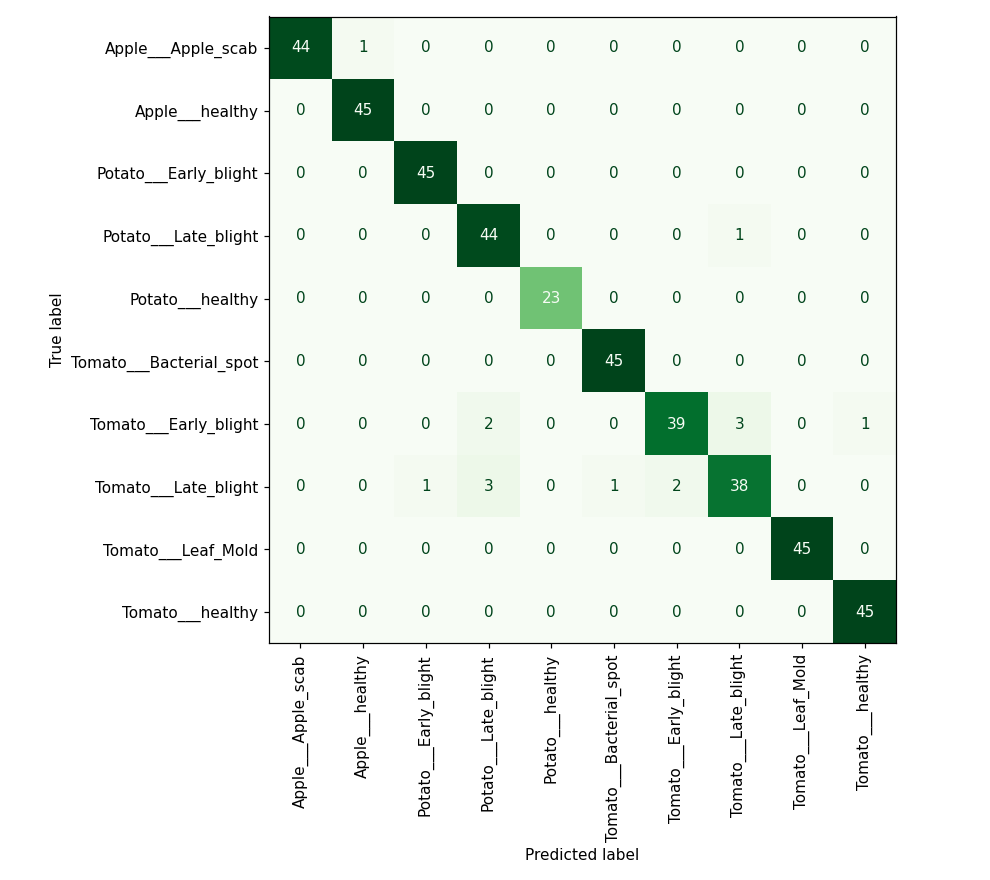
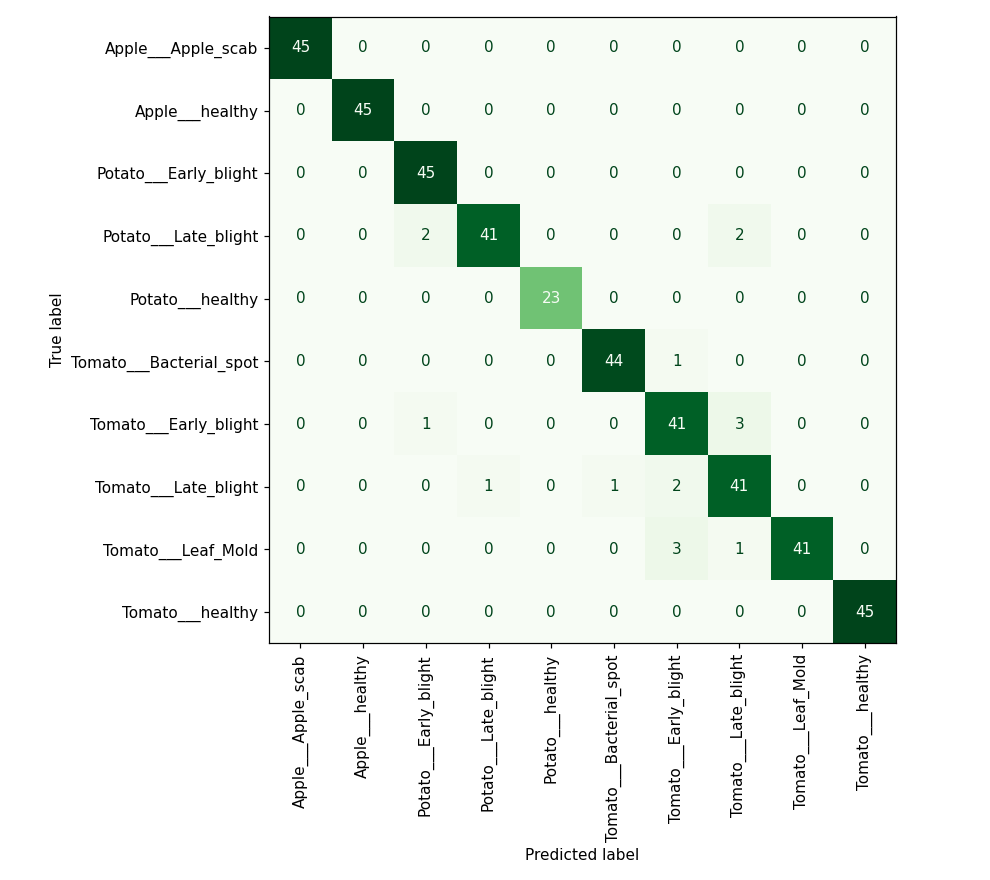
Robust model v5 (dark/blur augmentation): multi-criteria promotion gate, idempotent registration; docs and test counts updated

Changed region(s): [[0.7576, 0.583, 0.8485, 0.675], [0.6667, 0.4602, 0.697, 0.4909]]

diff --git a/src/train/evaluate.py b/src/train/evaluate.py
@@ -69,13 +69,51 @@ def robustness(model: torch.nn.Module, X: np.ndarray, y: np.ndarray) -> dict[str
     }
 
 
-def current_production_f1(client: MlflowClient) -> float:
-    """Test macro-F1 of the model currently aliased @production (-1 if none)."""
+ROBUST_KEYS = ("test_macro_f1", "test_dark_macro_f1", "test_blur_macro_f1")
+
+
+def overall_score(m: dict[str, float]) -> float:
+    """Mean F1 over clean, dark and blurry test photos (a metric missing = never measured = 0)."""
+    return float(np.mean([m.get(k, 0.0) for k in ROBUST_KEYS]))
+
+
+def current_production_metrics(client: MlflowClient) -> dict[str, float]:
+    """Test metrics of the model currently aliased @production ({} if none)."""
     try:
         mv = client.get_model_version_by_alias(MODEL_NAME, ALIAS)
-        return float(client.get_run(mv.run_id).data.metrics.get("test_macro_f1", -1))
+        return dict(client.get_run(mv.run_id).data.metrics)
     except Exception:
-        return -1.0
+        return {}
+
+
+def should_promote(
+    new: dict[str, float], prod: dict[str, float], min_f1: float, max_regression: float
+) -> tuple[bool, str]:
+    """Promotion gate.
+
+    1. clean test macro-F1 >= min_f1                          (absolute quality bar)
+    2. clean F1 >= production clean F1 - max_regression       (no meaningful drop on normal photos)
+    3. overall score (clean + dark + blur) >= production's    (better or equal under field conditions)
+    """
+    f1 = new["test_macro_f1"]
+    if f1 < min_f1:
+        return False, f"clean F1 {f1:.4f} < gate {min_f1:.2f}"
+    if not prod:
+        return True, "no production model yet"
+    if f1 < prod.get("test_macro_f1", 0.0) - max_regression:
+        return False, f"clean F1 {f1:.4f} dropped more than {max_regression} below production"
+    s_new, s_prod = overall_score(new), overall_score(prod)
+    if s_new < s_prod:
+        return False, f"overall score {s_new:.4f} < production {s_prod:.4f}"
+    return True, f"overall score {s_new:.4f} >= production {s_prod:.4f}"
+
+
+def register_once(client: MlflowClient, run_id: str):
+    """Reuse the registry version of this run if it exists (re-running evaluate must not duplicate it)."""
+    for v in client.search_model_versions(f"name='{MODEL_NAME}'"):
+        if v.run_id == run_id:
+            return v
+    return mlflow.register_model(f"runs:/{run_id}/model", MODEL_NAME)
 
 
 def main() -> None:
@@ -110,22 +148,25 @@ def main() -> None:
 
     mlflow.set_tracking_uri(os.getenv("MLFLOW_TRACKING_URI", "http://localhost:5000"))
     client = MlflowClient()
-    prod_f1 = current_production_f1(client)
+    prod = current_production_metrics(client)
+    new = {"test_macro_f1": f1, **robust}
 
     with mlflow.start_run(run_id=run_id):
         mlflow.log_metrics({"test_macro_f1": f1, "test_accuracy": acc, "test_min_class_recall": min_recall, **robust})
         mlflow.log_artifact("reports/confusion_matrix.png", artifact_path="eval")
         mlflow.log_artifact("reports/classification_report.json", artifact_path="eval")
-        mv = mlflow.register_model(f"runs:/{run_id}/model", MODEL_NAME)
+        mlflow.log_metric("test_overall_score", overall_score(new))
+        mv = register_once(client, run_id)
 
-    gate = params["evaluate"]["min_macro_f1"]
-    promoted = f1 >= gate and f1 >= prod_f1
+    ev = params["evaluate"]
+    promoted, reason = should_promote(new, prod, ev["min_macro_f1"], ev.get("max_clean_regression", 0.0))
     client.set_model_version_tag(MODEL_NAME, mv.version, "test_macro_f1", f"{f1:.4f}")
+    client.set_model_version_tag(MODEL_NAME, mv.version, "gate", reason)
     if promoted:
         client.set_registered_model_alias(MODEL_NAME, ALIAS, mv.version)
-        logger.info("promoted v%s to @%s (F1 %.4f >= gate %.2f, prev %.4f)", mv.version, ALIAS, f1, gate, prod_f1)
+        logger.info("promoted v%s to @%s: %s", mv.version, ALIAS, reason)
     else:
-        logger.warning("v%s NOT promoted (F1 %.4f, gate %.2f, prod %.4f)", mv.version, f1, gate, prod_f1)
+        logger.warning("v%s NOT promoted: %s", mv.version, reason)
 
     write_json(
         {
@@ -135,7 +176,10 @@ def main() -> None:
             **{k: round(v, 4) for k, v in robust.items()},
             "model_version": int(mv.version),
             "promoted": promoted,
-            "previous_production_f1": round(prod_f1, 4),
+            "test_overall_score": round(overall_score(new), 4),
+            "gate_reason": reason,
+            "previous_production_f1": round(prod.get("test_macro_f1", -1.0), 4),
+            "previous_production_score": round(overall_score(prod), 4) if prod else -1.0,
         },
         "reports/eval_metrics.json",
     )

diff --git a/tests/test_gate.py b/tests/test_gate.py
@@ -1,0 +1,30 @@
+"""Unit tests: model promotion gate (src/train/evaluate.py)."""
+
+from src.train.evaluate import should_promote
+
+PROD = {"test_macro_f1": 0.966, "test_dark_macro_f1": 0.84, "test_blur_macro_f1": 0.20}
+
+
+def test_first_model_promoted_if_above_gate():
+    assert should_promote({"test_macro_f1": 0.95}, {}, 0.90, 0.01)[0]
+
+
+def test_below_absolute_gate_rejected():
+    ok, why = should_promote({"test_macro_f1": 0.88}, {}, 0.90, 0.01)
+    assert not ok and "gate" in why
+
+
+def test_more_robust_model_with_small_clean_drop_promoted():
+    new = {"test_macro_f1": 0.962, "test_dark_macro_f1": 0.93, "test_blur_macro_f1": 0.88}
+    assert should_promote(new, PROD, 0.90, 0.01)[0]
+
+
+def test_large_clean_drop_rejected_even_if_robust():
+    new = {"test_macro_f1": 0.94, "test_dark_macro_f1": 0.95, "test_blur_macro_f1": 0.95}
+    ok, why = should_promote(new, PROD, 0.90, 0.01)
+    assert not ok and "dropped" in why
+
+
+def test_less_robust_model_rejected():
+    new = {"test_macro_f1": 0.966, "test_dark_macro_f1": 0.50, "test_blur_macro_f1": 0.10}
+    assert not should_promote(new, PROD, 0.90, 0.01)[0]

diff --git a/reports/tests/test_cases.md b/reports/tests/test_cases.md
@@ -7,55 +7,62 @@
 | 5 | e2e.test_stack | `test_real_leaf_predictions[apple_scab.jpg-Apple___Apple_scab]` | ⏭ skip | 0.00 |
 | 6 | e2e.test_stack | `test_prometheus_scrapes_all_targets` | ⏭ skip | 0.00 |
 | 7 | e2e.test_stack | `test_pipeline_status_lists_production_model` | ⏭ skip | 0.00 |
-| 8 | test_api | `test_health` | ✅ pass | 0.94 |
+| 8 | test_api | `test_health` | ✅ pass | 0.10 |
 | 9 | test_api | `test_ready_with_model_but_no_model_server` | ✅ pass | 0.04 |
-| 10 | test_api | `test_model_info` | ✅ pass | 0.03 |
-| 11 | test_api | `test_classes` | ✅ pass | 0.03 |
-| 12 | test_api | `test_predict_happy_path` | ✅ pass | 0.49 |
-| 13 | test_api | `test_predict_without_explanation` | ✅ pass | 0.09 |
-| 14 | test_api | `test_predict_png` | ✅ pass | 0.12 |
-| 15 | test_api | `test_predict_rejects_wrong_type` | ✅ pass | 0.03 |
-| 16 | test_api | `test_predict_rejects_empty` | ✅ pass | 0.03 |
-| 17 | test_api | `test_predict_rejects_corrupt_image` | ✅ pass | 0.05 |
-| 18 | test_api | `test_predict_rejects_too_large` | ✅ pass | 0.19 |
-| 19 | test_api | `test_dark_photo_warns` | ✅ pass | 0.10 |
-| 20 | test_api | `test_upload_is_stored_encrypted` | ✅ pass | 0.14 |
-| 21 | test_api | `test_feedback_flow` | ✅ pass | 0.17 |
-| 22 | test_api | `test_feedback_queues_labelled_photo_for_retraining` | ✅ pass | 0.32 |
-| 23 | test_api | `test_feedback_unknown_label` | ✅ pass | 0.12 |
-| 24 | test_api | `test_feedback_unknown_prediction` | ✅ pass | 0.03 |
-| 25 | test_api | `test_feedback_validation_error` | ✅ pass | 0.03 |
-| 26 | test_api | `test_drift_window_fills_and_resets` | ✅ pass | 0.19 |
-| 27 | test_api | `test_metrics_exposed` | ✅ pass | 0.09 |
-| 28 | test_api | `test_retrain_trigger_when_trainer_down` | ✅ pass | 0.04 |
-| 29 | test_api | `test_alert_webhook_ignores_non_retrain_alerts` | ✅ pass | 0.04 |
-| 30 | test_api | `test_alert_webhook_triggers_retrain_on_drift` | ✅ pass | 0.04 |
-| 31 | test_api | `test_model_not_loaded_returns_503` | ✅ pass | 0.04 |
-| 32 | test_data_pipeline | `test_valid_image_passes` | ✅ pass | 0.00 |
-| 33 | test_data_pipeline | `test_grayscale_image_is_accepted` | ✅ pass | 0.00 |
-| 34 | test_data_pipeline | `test_small_image_rejected` | ✅ pass | 0.00 |
-| 35 | test_data_pipeline | `test_corrupt_file_rejected` | ✅ pass | 0.00 |
-| 36 | test_data_pipeline | `test_missing_file_rejected` | ✅ pass | 0.00 |
-| 37 | test_data_pipeline | `test_transform_resizes_and_adds_stats` | ✅ pass | 0.01 |
-| 38 | test_drift | `test_stats_keys_and_ranges` | ✅ pass | 0.00 |
-| 39 | test_drift | `test_darker_image_has_lower_brightness` | ✅ pass | 0.00 |
-| 40 | test_drift | `test_blurred_image_has_lower_sharpness` | ✅ pass | 0.00 |
-| 41 | test_drift | `test_rejects_non_rgb` | ✅ pass | 0.00 |
-| 42 | test_drift | `test_baseline_roundtrip` | ✅ pass | 0.00 |
-| 43 | test_drift | `test_drift_detector_flags_dark_inputs` | ✅ pass | 0.01 |
-| 44 | test_drift | `test_empty_detector_scores_zero` | ✅ pass | 0.00 |
-| 45 | test_import_feedback | `test_imports_new_labelled_photo` | ✅ pass | 0.00 |
-| 46 | test_import_feedback | `test_second_run_is_idempotent` | ✅ pass | 0.00 |
-| 47 | test_import_feedback | `test_unknown_label_is_not_imported` | ✅ pass | 0.00 |
-| 48 | test_import_feedback | `test_wrong_key_is_reported_not_crashing` | ✅ pass | 0.00 |
-| 49 | test_import_feedback | `test_no_key_skips` | ✅ pass | 0.00 |
-| 50 | test_model | `test_forward_shape[mobilenet_v2]` | ✅ pass | 0.16 |
-| 51 | test_model | `test_forward_shape[resnet18]` | ✅ pass | 0.16 |
-| 52 | test_model | `test_freeze_backbone_only_head_trainable` | ✅ pass | 0.03 |
-| 53 | test_model | `test_unfrozen_backbone_trainable` | ✅ pass | 0.03 |
-| 54 | test_model | `test_normalisation_is_inside_model` | ✅ pass | 0.03 |
-| 55 | test_model | `test_unknown_backbone` | ✅ pass | 0.00 |
-| 56 | test_trainer | `test_successful_run_parses_stages` | ✅ pass | 0.05 |
-| 57 | test_trainer | `test_failed_run` | ✅ pass | 0.05 |
-| 58 | test_trainer | `test_rejects_concurrent_runs` | ✅ pass | 1.06 |
-| 59 | test_trainer | `test_alert_retrain_respects_cooldown` | ✅ pass | 0.10 |
+| 10 | test_api | `test_model_info` | ✅ pass | 0.04 |
+| 11 | test_api | `test_classes` | ✅ pass | 0.13 |
+| 12 | test_api | `test_predict_happy_path` | ✅ pass | 0.19 |
+| 13 | test_api | `test_predict_without_explanation` | ✅ pass | 0.06 |
+| 14 | test_api | `test_predict_png` | ✅ pass | 0.10 |
+| 15 | test_api | `test_predict_rejects_wrong_type` | ✅ pass | 0.04 |
+| 16 | test_api | `test_predict_rejects_empty` | ✅ pass | 0.04 |
+| 17 | test_api | `test_predict_rejects_corrupt_image` | ✅ pass | 0.04 |
+| 18 | test_api | `test_predict_rejects_too_large` | ✅ pass | 0.18 |
+| 19 | test_api | `test_real_leaf_is_recognised_as_leaf` | ✅ pass | 0.11 |
+| 20 | test_api | `test_non_leaf_photo_is_flagged` | ✅ pass | 0.08 |
+| 21 | test_api | `test_dark_photo_warns` | ✅ pass | 0.10 |
+| 22 | test_api | `test_upload_is_stored_encrypted` | ✅ pass | 0.10 |
+| 23 | test_api | `test_feedback_flow` | ✅ pass | 0.11 |
+| 24 | test_api | `test_feedback_queues_labelled_photo_for_retraining` | ✅ pass | 0.11 |
+| 25 | test_api | `test_feedback_unknown_label` | ✅ pass | 0.11 |
+| 26 | test_api | `test_feedback_unknown_prediction` | ✅ pass | 0.04 |
+| 27 | test_api | `test_feedback_validation_error` | ✅ pass | 0.03 |
+| 28 | test_api | `test_drift_window_fills_and_resets` | ✅ pass | 0.12 |
+| 29 | test_api | `test_metrics_exposed` | ✅ pass | 0.06 |
+| 30 | test_api | `test_retrain_trigger_when_trainer_down` | ✅ pass | 0.04 |
+| 31 | test_api | `test_alert_webhook_ignores_non_retrain_alerts` | ✅ pass | 0.04 |
+| 32 | test_api | `test_alert_webhook_triggers_retrain_on_drift` | ✅ pass | 0.03 |
+| 33 | test_api | `test_model_not_loaded_returns_503` | ✅ pass | 0.04 |
+| 34 | test_data_pipeline | `test_valid_image_passes` | ✅ pass | 0.00 |
+| 35 | test_data_pipeline | `test_grayscale_image_is_accepted` | ✅ pass | 0.00 |
+| 36 | test_data_pipeline | `test_small_image_rejected` | ✅ pass | 0.00 |
+| 37 | test_data_pipeline | `test_corrupt_file_rejected` | ✅ pass | 0.00 |
+| 38 | test_data_pipeline | `test_missing_file_rejected` | ✅ pass | 0.00 |
+| 39 | test_data_pipeline | `test_transform_resizes_and_adds_stats` | ✅ pass | 0.00 |
+| 40 | test_drift | `test_stats_keys_and_ranges` | ✅ pass | 0.00 |
+| 41 | test_drift | `test_darker_image_has_lower_brightness` | ✅ pass | 0.00 |
+| 42 | test_drift | `test_blurred_image_has_lower_sharpness` | ✅ pass | 0.00 |
+| 43 | test_drift | `test_rejects_non_rgb` | ✅ pass | 0.00 |
+| 44 | test_drift | `test_baseline_roundtrip` | ✅ pass | 0.00 |
+| 45 | test_drift | `test_drift_detector_flags_dark_inputs` | ✅ pass | 0.00 |
+| 46 | test_drift | `test_empty_detector_scores_zero` | ✅ pass | 0.00 |
+| 47 | test_gate | `test_first_model_promoted_if_above_gate` | ✅ pass | 0.00 |
+| 48 | test_gate | `test_below_absolute_gate_rejected` | ✅ pass | 0.00 |
+| 49 | test_gate | `test_more_robust_model_with_small_clean_drop_promoted` | ✅ pass | 0.00 |
+| 50 | test_gate | `test_large_clean_drop_rejected_even_if_robust` | ✅ pass | 0.00 |
+| 51 | test_gate | `test_less_robust_model_rejected` | ✅ pass | 0.00 |
+| 52 | test_import_feedback | `test_imports_new_labelled_photo` | ✅ pass | 0.00 |
+| 53 | test_import_feedback | `test_second_run_is_idempotent` | ✅ pass | 0.00 |
+| 54 | test_import_feedback | `test_unknown_label_is_not_imported` | ✅ pass | 0.00 |
+| 55 | test_import_feedback | `test_wrong_key_is_reported_not_crashing` | ✅ pass | 0.00 |
+| 56 | test_import_feedback | `test_no_key_skips` | ✅ pass | 0.00 |
+| 57 | test_model | `test_forward_shape[mobilenet_v2]` | ✅ pass | 0.07 |
+| 58 | test_model | `test_forward_shape[resnet18]` | ✅ pass | 0.14 |
+| 59 | test_model | `test_freeze_backbone_only_head_trainable` | ✅ pass | 0.03 |
+| 60 | test_model | `test_unfrozen_backbone_trainable` | ✅ pass | 0.03 |
+| 61 | test_model | `test_normalisation_is_inside_model` | ✅ pass | 0.03 |
+| 62 | test_model | `test_unknown_backbone` | ✅ pass | 0.00 |
+| 63 | test_trainer | `test_successful_run_parses_stages` | ✅ pass | 0.05 |
+| 64 | test_trainer | `test_failed_run` | ✅ pass | 0.05 |
+| 65 | test_trainer | `test_rejects_concurrent_runs` | ✅ pass | 1.06 |
+| 66 | test_trainer | `test_alert_retrain_respects_cooldown` | ✅ pass | 0.10 |

diff --git a/docs/HLD.md b/docs/HLD.md
@@ -40,6 +40,9 @@
 | **Registry alias polling** for deployment | Restart containers from CI | No privileged Docker socket is needed. Both the model server and the backend converge to `@production` within 30 s, and rollback is just moving the alias. |
 | **Drift = rolling z-score of brightness and blur** | KS test, PSI | Interpretable for operators ("photos are 25σ darker than training"), cheap per request, and maps directly onto the project statement's examples (brightness, blur). The window of 50 and the minimum of 20 samples avoid alerting on a single odd photo. |
 | **Feedback-labelled uploads become training data** | Retrain on the static dataset only | When a user confirms or corrects a prediction, the encrypted upload is queued under `data/feedback/<true label>/`. Before every retrain, `src/data/import_feedback.py` decrypts these into `data/raw`, and `scripts/retrain.sh` runs `dvc add data/raw`, which creates a new data version. Retraining therefore adapts to real field photos (dark, blurry, cluttered) instead of only reproducing the lab-photo model. The validate stage still checks the new photos and drops duplicates. |
+| **Field-condition augmentation + robustness metrics** | Augment with flips only | The drift demo showed the lab-trained model fails on field-like photos: on darkened and blurred copies of the test set, v4 scored F1 0.84 (dark) and **0.20 (blur)**. Training now optionally adds dark and blur augmentation (`train.field_augment`). Evaluation logs `test_dark_macro_f1` and `test_blur_macro_f1` to MLflow on every run, so robustness is tracked like accuracy. Augmentation runs in OpenCV on uint8 arrays, because torch ops inside forked DataLoader workers deadlock. |
+| **"Not a leaf" check (colour heuristic)** | A trained "other" class | No non-leaf training data is available in the course setup. A leaf-colour pixel ratio (HSV) flags blank pages, sky and screenshots, and wrongly flags under 1% of real leaves, measured on 600 dataset photos. The photo is flagged with a warning, not rejected, so a false flag never blocks a real user. A learned "other" class is the robust fix. |
+| **Dataset manifest + download script** | Only the DVC remote | The DVC remote is a local folder. `data/plantvillage_subset.txt` plus `scripts/download_data.py` rebuild the exact files from the public source, and `dvc status data/raw.dvc` proves they are byte-identical. That gives reproducibility from a fresh clone with no cloud storage. |
 | **Accuracy from user feedback** | Only offline evaluation | Ground truth exists in production only when users confirm or correct a prediction. A rolling accuracy over the last 100 feedbacks drives the `AccuracyDrop` alert. |
 | **Fernet encryption of stored uploads** | Plaintext storage | Meets the security best practice: user images are kept for future labelled retraining but never stored in plaintext. The key comes from the `ENCRYPTION_KEY` env var. |
 | **Single multi-stage Dockerfile** for Python services | One Dockerfile per service | Torch, MLflow and Ray are about 1.5 GB of dependencies. Sharing the layer cuts build time and disk use by about 4×. The frontend still has its own Dockerfile. |

diff --git a/docs/test_plan.md b/docs/test_plan.md
@@ -31,15 +31,15 @@
 
 | ID | Criterion | Threshold | Measured | Result |
 |---|---|---|---|---|
-| AC1 | Test-set macro-F1 | ≥ 0.90 | **0.966** (model v2) | ✅ |
-| AC2 | Minimum per-class recall | ≥ 0.80 | **0.844** (Tomato Early blight) | ✅ |
+| AC1 | Test-set macro-F1 | ≥ 0.90 | **0.962** (model v5; v2 was 0.966) | ✅ |
+| AC2 | Minimum per-class recall | ≥ 0.80 | **0.911** (model v5) | ✅ |
 | AC3 | p95 `/predict` latency, with heatmap, CPU, sequential | < 200 ms | **158 ms** (60 requests) | ✅ |
 | AC4 | API 5xx error rate under normal traffic | < 1 % | **0 %** (0 of 160 requests) | ✅ |
 | AC5 | Invalid inputs rejected with a clear 4xx message | 100 % | 415 / 400 / 413 / 422 verified | ✅ |
 | AC6 | Brightness drift detected within one window (50 uploads) | \|z\| > 3 | **z = −25.7** after 40 dark uploads | ✅ |
 | AC7 | A worse model is never promoted | gate holds | v1 (F1 0.881) rejected; v2 (0.966) promoted | ✅ |
 | AC8 | Data validation rejects bad files and keeps good ones | bad ≤ 5 % | 1 duplicate dropped, 2,851 kept | ✅ |
-| AC9 | All unit and integration tests pass | 100 % | **52 / 52** | ✅ |
+| AC9 | All unit and integration tests pass | 100 % | **59 / 59** | ✅ |
 | AC10 | Full stack starts with one command and E2E tests pass | 100 % | **7 / 7**, closed-loop retrain verified | ✅ |
 
 ## 4. Test cases
@@ -76,7 +76,9 @@ The full per-test table is generated on every run at `reports/tests/test_cases.m
 | TC43–46 | Trainer | `test_trainer.py` (4) | Fake pipelines | stage parsing; failure state; single-run lock; cooldown for alerts but not manual |
 | TC47–51 | Feedback import | `test_import_feedback.py` (5) | Encrypted labelled upload; rerun; unknown label; wrong key; no key | imported once as JPEG; idempotent; never creates a class; errors counted, no crash |
 | TC52 | API | `test_feedback_queues_labelled_photo_for_retraining` | Feedback on a stored upload | encrypted copy saved under `FEEDBACK_DIR/<label>/` |
-| TC53–59 | E2E | `tests/e2e/test_stack.py` (7) | Running stack | UI served with config; backend uses the model server; the 3 real samples classified correctly; all Prometheus targets up; registry has a production version |
+| TC53 | API | `test_real_leaf_is_recognised_as_leaf` | Real leaf JPG | `looks_like_leaf = true` |
+| TC54 | API | `test_non_leaf_photo_is_flagged` | Uniform "sky" image | `looks_like_leaf = false`, first warning says it isn't a leaf |
+| TC55–61 | E2E | `tests/e2e/test_stack.py` (7) | Running stack | UI served with config; backend uses the model server; the 3 real samples classified correctly; all Prometheus targets up; registry has a production version |
 
 ## 5. Test report
 
@@ -84,7 +86,7 @@ The full per-test table is generated on every run at `reports/tests/test_cases.m
 
 | Suite | Total | Passed | Failed | Skipped |
 |---|---|---|---|---|
-| Unit + integration | 52 | **52** | 0 | 0 |
+| Unit + integration | 59 | **59** | 0 | 0 |
 | E2E (needs the running stack) | 7 | — | — | 7 (run separately, see below) |
 
 **Performance and drift run** (`scripts/simulate_traffic.py`, local stack, model v2 via `mlflow models serve`):

diff --git a/README.md b/README.md
@@ -24,9 +24,9 @@ LeafGuard classifies photos of tomato, potato and apple leaves into 10 healthy o
 | Packaging | **Docker, Docker Compose** | `Dockerfile`, `frontend/Dockerfile`, `docker-compose.yml` |
 
 **Results:**
-- Model v2 (MobileNetV2, fine-tuned) has test **macro-F1 0.966** and accuracy 0.965.
+- Production model v5 (MobileNetV2, fine-tuned with field-condition augmentation) has test **macro-F1 0.962**. It is robust to field photos: F1 is **0.93 on dark** and **0.88 on blurry** test photos, up from 0.84 and 0.20 for the previous model.
 - p95 `/predict` latency is **158 ms** on CPU, including the heatmap.
-- 52/52 unit and integration tests pass.
+- 59/59 unit and integration tests pass.
 
 ## Documentation
 | Doc | Purpose |
@@ -58,6 +58,13 @@ docker compose up -d --build
 | Trainer | http://localhost:8001/status |
 
 The first start needs an MLflow registry with a `leafguard@production` model. Run the pipeline once (below, or click **Run pipeline now** in the console).
+
+## Getting the data without the DVC remote
+The DVC remote is a local folder, so a fresh clone can rebuild the exact dataset from the public PlantVillage repo instead:
+```bash
+python scripts/download_data.py   # downloads the 2,852 files listed in data/plantvillage_subset.txt
+dvc status data/raw.dvc           # "up to date" proves the files are byte-identical to the versioned dataset
+```
 
 ## Develop locally (no Docker)
 ```bash

diff --git a/docs/user_manual.md b/docs/user_manual.md
@@ -33,7 +33,7 @@ The dot in the top-right corner shows the service status:
    - Use daylight, and avoid dark shade and strong flash.
    - Use a plain background if you can.
    - Hold still so the photo is sharp.
-2. **Choose the photo.** On the *Check a leaf* page, drag the photo onto the dashed box, or click the box and pick the photo. A small preview appears.
+2. **Choose the photo.** On the *Check a leaf* page, drag the photo onto the dashed box, or click the box and pick the photo. **On a phone, tapping the box opens the camera directly.** A small preview appears.
 3. **Click "Check this leaf".** The result appears in about a second.
 4. **Read the result:**
    - A ✅ **green box** means the leaf looks healthy.
@@ -50,6 +50,7 @@ The dot in the top-right corner shows the service status:
 
 | Message | What to do |
 |---|---|
+| ❓ "This photo doesn't look like a plant leaf" | The photo shows mostly sky, paper, a screen or background. Photograph the leaf up close so it fills the frame. |
 | "Photo looks very dark" | Retake it in better light. |
 | "Photo looks blurry" | Hold the phone steady and tap the screen to focus on the leaf. |
 | "The model is not confident" | Retake the photo, or ask an agronomist. |

diff --git a/docs/LLD.md b/docs/LLD.md
@@ -58,6 +58,7 @@ The machine-readable contract is [`openapi.json`](openapi.json), exported from t
 | `prediction_id` | string (32 hex) | Use this when sending feedback |
 | `label` / `display_name` | string | Class id / human-readable name |
 | `is_healthy` | bool | The label ends with `healthy` |
+| `looks_like_leaf` | bool | `false` if under 0.5% of the pixels are leaf-coloured (HSV hue 10°–100°, saturated, not black). The UI then shows a neutral ❓ verdict and a warning. |
 | `confidence` | float [0,1] | Top-1 softmax probability |
 | `low_confidence` | bool | `confidence < LOW_CONFIDENCE_THRESHOLD` (0.6) |
 | `top3` | ClassScore[3] | The three most likely classes |
@@ -167,6 +168,7 @@ The signature is inferred at log time (`mlflow.models.infer_signature`) and stor
 | `leafguard_model_server_up` | gauge | — |
 | `leafguard_retrain_requests_total` | counter | source, accepted |
 | `leafguard_labelled_samples_total` | counter | — |
+| `leafguard_not_leaf_total` | counter | — |
 | `leafguard_mlflow_up` | gauge | — |
 | `leafguard_pipeline_runs_total` | counter (trainer) | status |
 | `leafguard_pipeline_running` | gauge (trainer) | — |

diff --git a/docs/demo_script.md b/docs/demo_script.md
@@ -92,7 +92,7 @@ Walk through `docs/`:
 - architecture
 - HLD
 - LLD with the OpenAPI spec
-- test plan and report: `dvc repro test` gives 52/52
+- test plan and report: `dvc repro test` gives 59/59
 - user manual
 
 Run `flake8` to show it's clean. Show the OO modules (`ModelService`, `RuntimeMonitor`, `Trainer`), the logging and the exception handlers.
